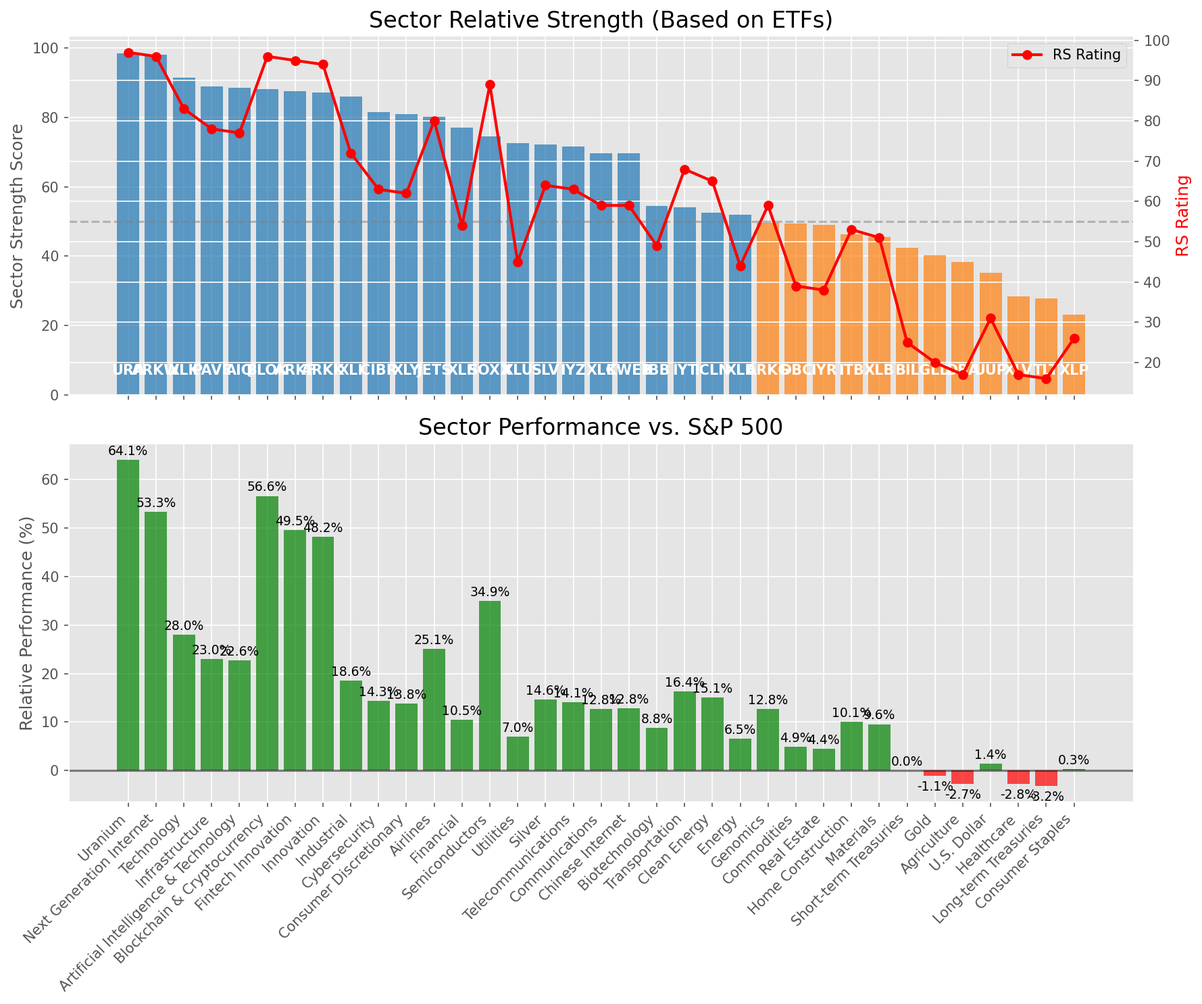
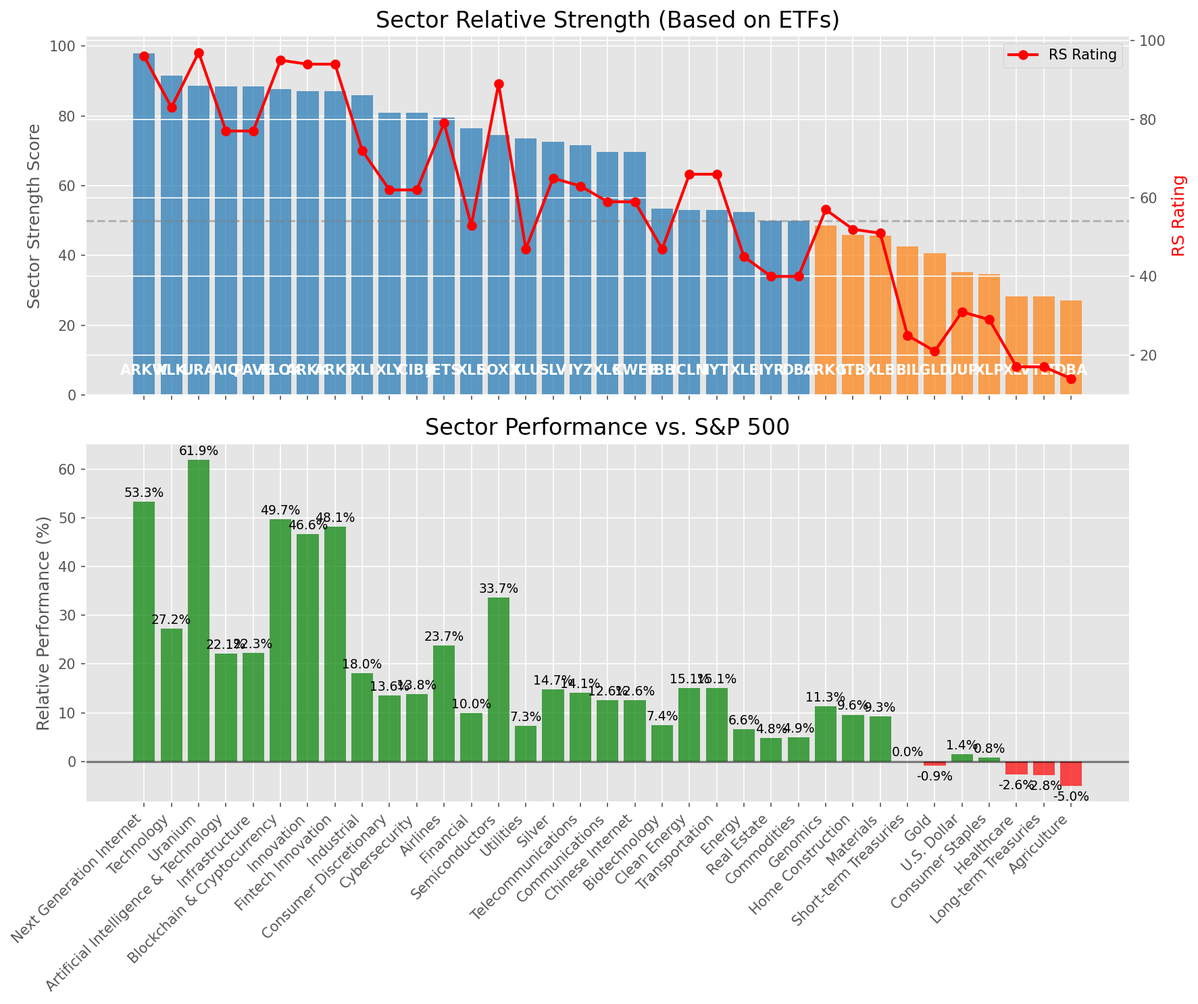
Add market report for 2025-07-29

diff --git a/oneil_relative_strength_report_2025-07-29.md b/oneil_relative_strength_report_2025-07-29.md
@@ -9,11 +9,11 @@
 | Metric | Value |
 |--------|-------|
 | **Market Valuation** | **Overvalued** |
-| **Current Ratio** | 10.48 |
+| **Current Ratio** | 10.45 |
 | **Historical Mean** | 9.61 |
 | **Standard Deviation** | 0.60 |
 | **Z-Score (StdDev from Mean)** | 1.43 |
-| **Total Market Cap** | $314.02 trillion |
+| **Total Market Cap** | $313.14 trillion |
 | **GDP** | $29.96 trillion |
 
 ## **Market Insights**
@@ -49,41 +49,41 @@ Based on William O'Neil's Relative Strength Methodology
 
 | ETF | Strength | RS Rating | Performance | Above Key MAs | Trend | Sector |
 |-----|----------|-----------|-------------|--------------|-------|--------|
-| [URA](https://www.tradingview.com/chart/?symbol=URA) | 98.5 | 97.0 | 64.05% | 10d ✓, 50d ✓, 200d ✓ | ↗ | Uranium |
 | [ARKW](https://www.tradingview.com/chart/?symbol=ARKW) | 98.0 | 96.0 | 53.30% | 10d ✓, 50d ✓, 200d ✓ | ↗ | Next Generation Internet |
-| [XLK](https://www.tradingview.com/chart/?symbol=XLK) | 91.5 | 83.0 | 27.95% | 10d ✓, 50d ✓, 200d ✓ | ↗ | Technology |
-| [PAVE](https://www.tradingview.com/chart/?symbol=PAVE) | 89.0 | 78.0 | 22.96% | 10d ✓, 50d ✓, 200d ✓ | ↗ | Infrastructure |
-| [AIQ](https://www.tradingview.com/chart/?symbol=AIQ) | 88.5 | 77.0 | 22.65% | 10d ✓, 50d ✓, 200d ✓ | ↗ | Artificial Intelligence & Technology |
-| [BLOK](https://www.tradingview.com/chart/?symbol=BLOK) | 88.1 | 96.0 | 56.58% | 10d ✗, 50d ✓, 200d ✓ | ↗ | Blockchain & Cryptocurrency |
-| [ARKF](https://www.tradingview.com/chart/?symbol=ARKF) | 87.6 | 95.0 | 49.52% | 10d ✗, 50d ✓, 200d ✓ | ↗ | Fintech Innovation |
-| [ARKK](https://www.tradingview.com/chart/?symbol=ARKK) | 87.1 | 94.0 | 48.17% | 10d ✗, 50d ✓, 200d ✓ | ↗ | Innovation |
-| [XLI](https://www.tradingview.com/chart/?symbol=XLI) | 86.0 | 72.0 | 18.59% | 10d ✓, 50d ✓, 200d ✓ | ↗ | Industrial |
-| [CIBR](https://www.tradingview.com/chart/?symbol=CIBR) | 81.5 | 63.0 | 14.34% | 10d ✓, 50d ✓, 200d ✓ | ↗ | Cybersecurity |
-| [XLY](https://www.tradingview.com/chart/?symbol=XLY) | 81.0 | 62.0 | 13.75% | 10d ✓, 50d ✓, 200d ✓ | ↗ | Consumer Discretionary |
-| [JETS](https://www.tradingview.com/chart/?symbol=JETS) | 80.1 | 80.0 | 25.13% | 10d ✗, 50d ✓, 200d ✓ | ↗ | Airlines |
-| [XLF](https://www.tradingview.com/chart/?symbol=XLF) | 77.0 | 54.0 | 10.47% | 10d ✓, 50d ✓, 200d ✓ | ↗ | Financial |
-| [SOXX](https://www.tradingview.com/chart/?symbol=SOXX) | 74.5 | 89.0 | 34.93% | 10d ✓, 50d ✓, 200d ✓ | ↘ | Semiconductors |
-| [XLU](https://www.tradingview.com/chart/?symbol=XLU) | 72.5 | 45.0 | 7.02% | 10d ✓, 50d ✓, 200d ✓ | ↗ | Utilities |
-| [SLV](https://www.tradingview.com/chart/?symbol=SLV) | 72.1 | 64.0 | 14.59% | 10d ✗, 50d ✓, 200d ✓ | ↗ | Silver |
+| [XLK](https://www.tradingview.com/chart/?symbol=XLK) | 91.5 | 83.0 | 27.22% | 10d ✓, 50d ✓, 200d ✓ | ↗ | Technology |
+| [URA](https://www.tradingview.com/chart/?symbol=URA) | 88.6 | 97.0 | 61.92% | 10d ✗, 50d ✓, 200d ✓ | ↗ | Uranium |
+| [AIQ](https://www.tradingview.com/chart/?symbol=AIQ) | 88.5 | 77.0 | 22.07% | 10d ✓, 50d ✓, 200d ✓ | ↗ | Artificial Intelligence & Technology |
+| [PAVE](https://www.tradingview.com/chart/?symbol=PAVE) | 88.5 | 77.0 | 22.29% | 10d ✓, 50d ✓, 200d ✓ | ↗ | Infrastructure |
+| [BLOK](https://www.tradingview.com/chart/?symbol=BLOK) | 87.6 | 95.0 | 49.70% | 10d ✗, 50d ✓, 200d ✓ | ↗ | Blockchain & Cryptocurrency |
+| [ARKK](https://www.tradingview.com/chart/?symbol=ARKK) | 87.1 | 94.0 | 46.64% | 10d ✗, 50d ✓, 200d ✓ | ↗ | Innovation |
+| [ARKF](https://www.tradingview.com/chart/?symbol=ARKF) | 87.1 | 94.0 | 48.14% | 10d ✗, 50d ✓, 200d ✓ | ↗ | Fintech Innovation |
+| [XLI](https://www.tradingview.com/chart/?symbol=XLI) | 86.0 | 72.0 | 18.05% | 10d ✓, 50d ✓, 200d ✓ | ↗ | Industrial |
+| [XLY](https://www.tradingview.com/chart/?symbol=XLY) | 81.0 | 62.0 | 13.57% | 10d ✓, 50d ✓, 200d ✓ | ↗ | Consumer Discretionary |
+| [CIBR](https://www.tradingview.com/chart/?symbol=CIBR) | 81.0 | 62.0 | 13.75% | 10d ✓, 50d ✓, 200d ✓ | ↗ | Cybersecurity |
+| [JETS](https://www.tradingview.com/chart/?symbol=JETS) | 79.6 | 79.0 | 23.73% | 10d ✗, 50d ✓, 200d ✓ | ↗ | Airlines |
+| [XLF](https://www.tradingview.com/chart/?symbol=XLF) | 76.5 | 53.0 | 9.98% | 10d ✓, 50d ✓, 200d ✓ | ↗ | Financial |
+| [SOXX](https://www.tradingview.com/chart/?symbol=SOXX) | 74.5 | 89.0 | 33.67% | 10d ✓, 50d ✓, 200d ✓ | ↘ | Semiconductors |
+| [XLU](https://www.tradingview.com/chart/?symbol=XLU) | 73.5 | 47.0 | 7.27% | 10d ✓, 50d ✓, 200d ✓ | ↗ | Utilities |
+| [SLV](https://www.tradingview.com/chart/?symbol=SLV) | 72.6 | 65.0 | 14.74% | 10d ✗, 50d ✓, 200d ✓ | ↗ | Silver |
 | [IYZ](https://www.tradingview.com/chart/?symbol=IYZ) | 71.6 | 63.0 | 14.08% | 10d ✗, 50d ✓, 200d ✓ | ↗ | Telecommunications |
-| [XLC](https://www.tradingview.com/chart/?symbol=XLC) | 69.6 | 59.0 | 12.75% | 10d ✗, 50d ✓, 200d ✓ | ↗ | Communications |
-| [KWEB](https://www.tradingview.com/chart/?symbol=KWEB) | 69.6 | 59.0 | 12.80% | 10d ✗, 50d ✓, 200d ✓ | ↗ | Chinese Internet |
-| [IBB](https://www.tradingview.com/chart/?symbol=IBB) | 54.5 | 49.0 | 8.84% | 10d ✓, 50d ✓, 200d ✓ | ↘ | Biotechnology |
-| [IYT](https://www.tradingview.com/chart/?symbol=IYT) | 54.1 | 68.0 | 16.36% | 10d ✗, 50d ✓, 200d ✓ | ↘ | Transportation |
-| [ICLN](https://www.tradingview.com/chart/?symbol=ICLN) | 52.6 | 65.0 | 15.07% | 10d ✗, 50d ✓, 200d ✓ | ↘ | Clean Energy |
-| [XLE](https://www.tradingview.com/chart/?symbol=XLE) | 52.0 | 44.0 | 6.53% | 10d ✓, 50d ✓, 200d ✓ | ↘ | Energy |
-| [ARKG](https://www.tradingview.com/chart/?symbol=ARKG) | 49.6 | 59.0 | 12.75% | 10d ✗, 50d ✓, 200d ✓ | ↘ | Genomics |
-| [DBC](https://www.tradingview.com/chart/?symbol=DBC) | 49.5 | 39.0 | 4.92% | 10d ✓, 50d ✓, 200d ✓ | ↘ | Commodities |
-| [IYR](https://www.tradingview.com/chart/?symbol=IYR) | 49.0 | 38.0 | 4.44% | 10d ✓, 50d ✓, 200d ✓ | ↘ | Real Estate |
-| [ITB](https://www.tradingview.com/chart/?symbol=ITB) | 46.3 | 53.0 | 10.06% | 10d ✓, 50d ✓, 200d ✗ | ↘ | Home Construction |
-| [XLB](https://www.tradingview.com/chart/?symbol=XLB) | 45.6 | 51.0 | 9.56% | 10d ✗, 50d ✓, 200d ✓ | ↘ | Materials |
+| [XLC](https://www.tradingview.com/chart/?symbol=XLC) | 69.6 | 59.0 | 12.57% | 10d ✗, 50d ✓, 200d ✓ | ↗ | Communications |
+| [KWEB](https://www.tradingview.com/chart/?symbol=KWEB) | 69.6 | 59.0 | 12.57% | 10d ✗, 50d ✓, 200d ✓ | ↗ | Chinese Internet |
+| [IBB](https://www.tradingview.com/chart/?symbol=IBB) | 53.5 | 47.0 | 7.40% | 10d ✓, 50d ✓, 200d ✓ | ↘ | Biotechnology |
+| [ICLN](https://www.tradingview.com/chart/?symbol=ICLN) | 53.1 | 66.0 | 15.09% | 10d ✗, 50d ✓, 200d ✓ | ↘ | Clean Energy |
+| [IYT](https://www.tradingview.com/chart/?symbol=IYT) | 53.1 | 66.0 | 15.10% | 10d ✗, 50d ✓, 200d ✓ | ↘ | Transportation |
+| [XLE](https://www.tradingview.com/chart/?symbol=XLE) | 52.5 | 45.0 | 6.56% | 10d ✓, 50d ✓, 200d ✓ | ↘ | Energy |
+| [IYR](https://www.tradingview.com/chart/?symbol=IYR) | 50.0 | 40.0 | 4.82% | 10d ✓, 50d ✓, 200d ✓ | ↘ | Real Estate |
+| [DBC](https://www.tradingview.com/chart/?symbol=DBC) | 50.0 | 40.0 | 4.92% | 10d ✓, 50d ✓, 200d ✓ | ↘ | Commodities |
+| [ARKG](https://www.tradingview.com/chart/?symbol=ARKG) | 48.6 | 57.0 | 11.32% | 10d ✗, 50d ✓, 200d ✓ | ↘ | Genomics |
+| [ITB](https://www.tradingview.com/chart/?symbol=ITB) | 45.8 | 52.0 | 9.58% | 10d ✓, 50d ✓, 200d ✗ | ↘ | Home Construction |
+| [XLB](https://www.tradingview.com/chart/?symbol=XLB) | 45.6 | 51.0 | 9.28% | 10d ✗, 50d ✓, 200d ✓ | ↘ | Materials |
 | [BIL](https://www.tradingview.com/chart/?symbol=BIL) | 42.5 | 25.0 | 0.02% | 10d ✓, 50d ✓, 200d ✓ | ↘ | Short-term Treasuries |
-| [GLD](https://www.tradingview.com/chart/?symbol=GLD) | 40.2 | 20.0 | -1.12% | 10d ✗, 50d ✗, 200d ✓ | ↗ | Gold |
-| [DBA](https://www.tradingview.com/chart/?symbol=DBA) | 38.4 | 17.0 | -2.74% | 10d ✓, 50d ✗, 200d ✗ | ↗ | Agriculture |
-| [UUP](https://www.tradingview.com/chart/?symbol=UUP) | 35.3 | 31.0 | 1.45% | 10d ✓, 50d ✓, 200d ✗ | ↘ | U.S. Dollar |
-| [XLV](https://www.tradingview.com/chart/?symbol=XLV) | 28.3 | 17.0 | -2.80% | 10d ✓, 50d ✓, 200d ✗ | ↘ | Healthcare |
-| [TLT](https://www.tradingview.com/chart/?symbol=TLT) | 27.8 | 16.0 | -3.16% | 10d ✓, 50d ✓, 200d ✗ | ↘ | Long-term Treasuries |
-| [XLP](https://www.tradingview.com/chart/?symbol=XLP) | 23.2 | 26.0 | 0.32% | 10d ✗, 50d ✗, 200d ✓ | ↘ | Consumer Staples |
+| [GLD](https://www.tradingview.com/chart/?symbol=GLD) | 40.7 | 21.0 | -0.85% | 10d ✗, 50d ✗, 200d ✓ | ↗ | Gold |
+| [UUP](https://www.tradingview.com/chart/?symbol=UUP) | 35.3 | 31.0 | 1.43% | 10d ✓, 50d ✓, 200d ✗ | ↘ | U.S. Dollar |
+| [XLP](https://www.tradingview.com/chart/?symbol=XLP) | 34.6 | 29.0 | 0.81% | 10d ✓, 50d ✗, 200d ✓ | ↘ | Consumer Staples |
+| [XLV](https://www.tradingview.com/chart/?symbol=XLV) | 28.3 | 17.0 | -2.65% | 10d ✓, 50d ✓, 200d ✗ | ↘ | Healthcare |
+| [TLT](https://www.tradingview.com/chart/?symbol=TLT) | 28.3 | 17.0 | -2.80% | 10d ✓, 50d ✓, 200d ✗ | ↘ | Long-term Treasuries |
+| [DBA](https://www.tradingview.com/chart/?symbol=DBA) | 27.0 | 14.0 | -5.03% | 10d ✗, 50d ✗, 200d ✗ | ↗ | Agriculture |
 
 ### **Sector ETF Performance Interpretation**
 
@@ -98,178 +98,174 @@ This table shows the relative strength metrics for different market sectors base
 
 ### **Current Sector Leadership**
 
-The current market leadership is coming from the following sectors: **Uranium, Next Generation Internet, Technology**.
+The current market leadership is coming from the following sectors: **Next Generation Internet, Technology, Uranium**.
 
-The **Uranium** sector (represented by **URA**) is showing particularly strong relative strength with an RS rating of 97.0 and performance of 64.05% vs. the S&P 500. This sector is trading above its 10-day, 50-day, 200-day moving average(s). Investors should consider focusing on high RS stocks within these leading sectors for potential outperformance.
+The **Next Generation Internet** sector (represented by **ARKW**) is showing particularly strong relative strength with an RS rating of 96.0 and performance of 53.30% vs. the S&P 500. This sector is trading above its 10-day, 50-day, 200-day moving average(s). Investors should consider focusing on high RS stocks within these leading sectors for potential outperformance.
 
 ---
 
 ## **Buy Recommendations**
 
-The following 48 stocks show exceptional relative strength:
+The following 42 stocks show exceptional relative strength:
 
 | RS Rating | Buy Score | Current Price | Chart | Name | Ticker |
 |-----------|-----------|---------------|-------|------|--------|
-| 100 | 100 | $105.97 | [Chart](https://www.tradingview.com/chart/?symbol=HOOD) | Robinhood Markets, Inc. Class A Common Stock | HOOD |
-| 100 | 100 | $234.36 | [Chart](https://www.tradingview.com/chart/?symbol=LEU) | Centrus Energy Corp. | LEU |
-| 100 | 100 | $205.12 | [Chart](https://www.tradingview.com/chart/?symbol=CLS) | Celestica, Inc. | CLS |
-| 100 | 100 | $49.63 | [Chart](https://www.tradingview.com/chart/?symbol=TTMI) | TTM Technologies Inc | TTMI |
-| 100 | 100 | $62.19 | [Chart](https://www.tradingview.com/chart/?symbol=MP) | MP Materials Corp. | MP |
-| 100 | 100 | $145.14 | [Chart](https://www.tradingview.com/chart/?symbol=SEZL) | Sezzle Inc. Common Stock | SEZL |
-| 100 | 100 | $226.99 | [Chart](https://www.tradingview.com/chart/?symbol=DAVE) | Dave Inc. Class A Common Stock | DAVE |
+| 100 | 100 | $105.23 | [Chart](https://www.tradingview.com/chart/?symbol=HOOD) | Robinhood Markets, Inc. Class A Common Stock | HOOD |
+| 100 | 100 | $61.60 | [Chart](https://www.tradingview.com/chart/?symbol=MP) | MP Materials Corp. | MP |
+| 100 | 100 | $142.22 | [Chart](https://www.tradingview.com/chart/?symbol=SEZL) | Sezzle Inc. Common Stock | SEZL |
+| 100 | 100 | $203.92 | [Chart](https://www.tradingview.com/chart/?symbol=CLS) | Celestica, Inc. | CLS |
+| 100 | 100 | $49.29 | [Chart](https://www.tradingview.com/chart/?symbol=TTMI) | TTM Technologies Inc | TTMI |
+| 100 | 100 | $221.99 | [Chart](https://www.tradingview.com/chart/?symbol=DAVE) | Dave Inc. Class A Common Stock | DAVE |
 | 99 | 100 | $25.46 | [Chart](https://www.tradingview.com/chart/?symbol=CPS) | Cooper-Standard Automotive Inc. | CPS |
-| 99 | 100 | $76.17 | [Chart](https://www.tradingview.com/chart/?symbol=LIF) | Life360, Inc. Common Stock | LIF |
-| 99 | 100 | $57.48 | [Chart](https://www.tradingview.com/chart/?symbol=HIMS) | Hims & Hers Health, Inc. | HIMS |
-| 98 | 100 | $58.60 | [Chart](https://www.tradingview.com/chart/?symbol=KTOS) | Kratos Defense & Security Solutions, Inc. | KTOS |
-| 98 | 100 | $643.35 | [Chart](https://www.tradingview.com/chart/?symbol=GEV) | GE Vernova Inc. | GEV |
-| 98 | 100 | $360.02 | [Chart](https://www.tradingview.com/chart/?symbol=TLN) | Talen Energy Corporation Common Stock | TLN |
-| 97 | 100 | $243.00 | [Chart](https://www.tradingview.com/chart/?symbol=AGX) | Argan, Inc | AGX |
-| 97 | 100 | $202.10 | [Chart](https://www.tradingview.com/chart/?symbol=NET) | Cloudflare, Inc. Class A common stock, par value $0.001 per share | NET |
-| 96 | 100 | $231.95 | [Chart](https://www.tradingview.com/chart/?symbol=JBL) | Jabil Inc. | JBL |
+| 99 | 100 | $76.88 | [Chart](https://www.tradingview.com/chart/?symbol=LIF) | Life360, Inc. Common Stock | LIF |
+| 99 | 100 | $58.20 | [Chart](https://www.tradingview.com/chart/?symbol=HIMS) | Hims & Hers Health, Inc. | HIMS |
+| 98 | 100 | $356.51 | [Chart](https://www.tradingview.com/chart/?symbol=TLN) | Talen Energy Corporation Common Stock | TLN |
+| 98 | 100 | $636.43 | [Chart](https://www.tradingview.com/chart/?symbol=GEV) | GE Vernova Inc. | GEV |
+| 97 | 100 | $199.75 | [Chart](https://www.tradingview.com/chart/?symbol=NET) | Cloudflare, Inc. Class A common stock, par value $0.001 per share | NET |
+| 97 | 100 | $231.07 | [Chart](https://www.tradingview.com/chart/?symbol=JBL) | Jabil Inc. | JBL |
+| 97 | 100 | $240.51 | [Chart](https://www.tradingview.com/chart/?symbol=AGX) | Argan, Inc | AGX |
+| 96 | 100 | $65.44 | [Chart](https://www.tradingview.com/chart/?symbol=IBKR) | Interactive Brokers Group, Inc. Class A Common Stock | IBKR |
+| 96 | 100 | $105.18 | [Chart](https://www.tradingview.com/chart/?symbol=VRNA) | Verona Pharma plc | VRNA |
 | 96 | 100 | $158.24 | [Chart](https://www.tradingview.com/chart/?symbol=ARKW) | ARK Next Generation Internet ETF | ARKW |
-| 96 | 100 | $65.88 | [Chart](https://www.tradingview.com/chart/?symbol=IBKR) | Interactive Brokers Group, Inc. Class A Common Stock | IBKR |
-| 96 | 100 | $37.73 | [Chart](https://www.tradingview.com/chart/?symbol=NNE) | Nano Nuclear Energy Inc. Common Stock | NNE |
-| 95 | 100 | $105.27 | [Chart](https://www.tradingview.com/chart/?symbol=VRNA) | Verona Pharma plc | VRNA |
-| 94 | 100 | $77.48 | [Chart](https://www.tradingview.com/chart/?symbol=URBN) | Urban Outfitters Inc | URBN |
-| 93 | 100 | $260.58 | [Chart](https://www.tradingview.com/chart/?symbol=WWD) | Woodward, Inc. | WWD |
-| 93 | 100 | $22.47 | [Chart](https://www.tradingview.com/chart/?symbol=MIR) | Mirion Technologies, Inc. | MIR |
-| 92 | 100 | $114.14 | [Chart](https://www.tradingview.com/chart/?symbol=SANM) | Sanmina  Corp | SANM |
-| 92 | 100 | $163.82 | [Chart](https://www.tradingview.com/chart/?symbol=COOP) | Mr. Cooper Group Inc. Common Stock | COOP |
-| 91 | 100 | $34.76 | [Chart](https://www.tradingview.com/chart/?symbol=APG) | APi Group Corporation | APG |
-| 91 | 100 | $189.84 | [Chart](https://www.tradingview.com/chart/?symbol=HWM) | Howmet Aerospace Inc. | HWM |
-| 91 | 100 | $95.81 | [Chart](https://www.tradingview.com/chart/?symbol=C) | Citigroup Inc. | C |
-| 91 | 100 | $106.15 | [Chart](https://www.tradingview.com/chart/?symbol=APH) | Amphenol Corporation | APH |
-| 91 | 100 | $19.83 | [Chart](https://www.tradingview.com/chart/?symbol=LQDA) | Liquidia Corporation Common Stock | LQDA |
-| 91 | 100 | $57.96 | [Chart](https://www.tradingview.com/chart/?symbol=VIK) | Viking Holdings Ltd | VIK |
-| 90 | 100 | $157.78 | [Chart](https://www.tradingview.com/chart/?symbol=PLTR) | Palantir Technologies Inc. Class A Common Stock | PLTR |
-| 89 | 100 | $48.68 | [Chart](https://www.tradingview.com/chart/?symbol=TOST) | Toast, Inc. | TOST |
-| 89 | 100 | $271.89 | [Chart](https://www.tradingview.com/chart/?symbol=GE) | GE Aerospace | GE |
-| 86 | 99 | $91.05 | [Chart](https://www.tradingview.com/chart/?symbol=RBRK) | Rubrik, Inc. | RBRK |
-| 86 | 98 | $48.27 | [Chart](https://www.tradingview.com/chart/?symbol=DRS) | Leonardo DRS, Inc. Common Stock | DRS |
-| 84 | 97 | $33.09 | [Chart](https://www.tradingview.com/chart/?symbol=DB) | Deutsche Bank Aktiengesellschaft | DB |
-| 85 | 96 | $46.62 | [Chart](https://www.tradingview.com/chart/?symbol=BBIO) | BridgeBio Pharma, Inc. Common Stock | BBIO |
-| 84 | 96 | $101.94 | [Chart](https://www.tradingview.com/chart/?symbol=BK) | Bank of New York Mellon Corporation | BK |
-| 84 | 95 | $291.31 | [Chart](https://www.tradingview.com/chart/?symbol=VEEV) | Veeva Systems Inc. | VEEV |
+| 94 | 100 | $265.90 | [Chart](https://www.tradingview.com/chart/?symbol=WWD) | Woodward, Inc. | WWD |
+| 94 | 100 | $77.70 | [Chart](https://www.tradingview.com/chart/?symbol=URBN) | Urban Outfitters Inc | URBN |
+| 93 | 100 | $117.00 | [Chart](https://www.tradingview.com/chart/?symbol=SANM) | Sanmina  Corp | SANM |
+| 93 | 100 | $22.30 | [Chart](https://www.tradingview.com/chart/?symbol=MIR) | Mirion Technologies, Inc. | MIR |
+| 92 | 100 | $161.95 | [Chart](https://www.tradingview.com/chart/?symbol=COOP) | Mr. Cooper Group Inc. Common Stock | COOP |
+| 92 | 100 | $190.22 | [Chart](https://www.tradingview.com/chart/?symbol=HWM) | Howmet Aerospace Inc. | HWM |
+| 92 | 100 | $105.91 | [Chart](https://www.tradingview.com/chart/?symbol=APH) | Amphenol Corporation | APH |
+| 91 | 100 | $19.73 | [Chart](https://www.tradingview.com/chart/?symbol=LQDA) | Liquidia Corporation Common Stock | LQDA |
+| 91 | 100 | $94.97 | [Chart](https://www.tradingview.com/chart/?symbol=C) | Citigroup Inc. | C |
+| 90 | 100 | $156.37 | [Chart](https://www.tradingview.com/chart/?symbol=PLTR) | Palantir Technologies Inc. Class A Common Stock | PLTR |
+| 89 | 100 | $48.25 | [Chart](https://www.tradingview.com/chart/?symbol=TOST) | Toast, Inc. | TOST |
+| 89 | 100 | $271.04 | [Chart](https://www.tradingview.com/chart/?symbol=GE) | GE Aerospace | GE |
+| 87 | 99 | $48.51 | [Chart](https://www.tradingview.com/chart/?symbol=DRS) | Leonardo DRS, Inc. Common Stock | DRS |
+| 85 | 98 | $89.84 | [Chart](https://www.tradingview.com/chart/?symbol=RBRK) | Rubrik, Inc. | RBRK |
+| 86 | 97 | $46.76 | [Chart](https://www.tradingview.com/chart/?symbol=BBIO) | BridgeBio Pharma, Inc. Common Stock | BBIO |
+| 85 | 97 | $101.47 | [Chart](https://www.tradingview.com/chart/?symbol=BK) | Bank of New York Mellon Corporation | BK |
+| 84 | 97 | $32.95 | [Chart](https://www.tradingview.com/chart/?symbol=DB) | Deutsche Bank Aktiengesellschaft | DB |
+| 84 | 94 | $177.93 | [Chart](https://www.tradingview.com/chart/?symbol=AWI) | Armstrong World Industries, Inc. | AWI |
 | 83 | 94 | $147.19 | [Chart](https://www.tradingview.com/chart/?symbol=PPA) | Invesco Aerospace & Defense ETF | PPA |
-| 82 | 94 | $64.76 | [Chart](https://www.tradingview.com/chart/?symbol=CAKE) | Cheesecake Factory (The) | CAKE |
-| 83 | 93 | $48.84 | [Chart](https://www.tradingview.com/chart/?symbol=INOD) | Innodata Inc. | INOD |
-| 83 | 93 | $177.26 | [Chart](https://www.tradingview.com/chart/?symbol=AWI) | Armstrong World Industries, Inc. | AWI |
-| 82 | 93 | $197.84 | [Chart](https://www.tradingview.com/chart/?symbol=ITA) | iShares U.S. Aerospace & Defense ETF | ITA |
-| 82 | 92 | $95.53 | [Chart](https://www.tradingview.com/chart/?symbol=NDAQ) | Nasdaq, Inc. Common Stock | NDAQ |
-| 80 | 91 | $40.63 | [Chart](https://www.tradingview.com/chart/?symbol=ZLAB) | Zai Lab Limited American Depositary Shares | ZLAB |
-| 80 | 90 | $65.61 | [Chart](https://www.tradingview.com/chart/?symbol=CNM) | Core & Main, Inc. | CNM |
+| 83 | 94 | $197.53 | [Chart](https://www.tradingview.com/chart/?symbol=ITA) | iShares U.S. Aerospace & Defense ETF | ITA |
+| 83 | 94 | $287.29 | [Chart](https://www.tradingview.com/chart/?symbol=VEEV) | Veeva Systems Inc. | VEEV |
+| 80 | 94 | $19.83 | [Chart](https://www.tradingview.com/chart/?symbol=BCS) | Barclays PLC | BCS |
+| 83 | 93 | $95.45 | [Chart](https://www.tradingview.com/chart/?symbol=NDAQ) | Nasdaq, Inc. Common Stock | NDAQ |
+| 80 | 91 | $71.50 | [Chart](https://www.tradingview.com/chart/?symbol=ULS) | UL Solutions Inc. | ULS |
+| 80 | 90 | $112.93 | [Chart](https://www.tradingview.com/chart/?symbol=SXT) | Sensient Technology Corporation | SXT |
 
 ---
 
 
 ## **Sell Recommendations**
 
-The following 102 stocks show deteriorating relative strength:
+The following 104 stocks show deteriorating relative strength:
 
 | RS Rating | Sell Score | Current Price | Chart | Name | Ticker |
 |-----------|------------|---------------|-------|------|--------|
-| 1 | 100 | $23.14 | [Chart](https://www.tradingview.com/chart/?symbol=TECS) | Direxion Daily Technology Bear 3x Shares | TECS |
-| 1 | 100 | $23.89 | [Chart](https://www.tradingview.com/chart/?symbol=QID) | ProShares UltraShort QQQ | QID |
-| 1 | 100 | $11.98 | [Chart](https://www.tradingview.com/chart/?symbol=NVDS) | Investment Managers Series Trust II Tradr 1.5X Short NVDA Daily ETF | NVDS |
-| 1 | 100 | $22.96 | [Chart](https://www.tradingview.com/chart/?symbol=CRTO) | Criteo S.A. | CRTO |
-| 2 | 100 | $14.37 | [Chart](https://www.tradingview.com/chart/?symbol=CLBT) | Cellebrite DI Ltd. Class A Ordinary Shares | CLBT |
-| 2 | 100 | $39.69 | [Chart](https://www.tradingview.com/chart/?symbol=SDOW) | ProShares UltraPro Short Dow 30 | SDOW |
-| 2 | 100 | $13.60 | [Chart](https://www.tradingview.com/chart/?symbol=SG) | Sweetgreen, Inc. | SG |
+| 1 | 100 | $23.04 | [Chart](https://www.tradingview.com/chart/?symbol=CRTO) | Criteo S.A. | CRTO |
+| 1 | 100 | $23.55 | [Chart](https://www.tradingview.com/chart/?symbol=TECS) | Direxion Daily Technology Bear 3x Shares | TECS |
+| 1 | 100 | $12.17 | [Chart](https://www.tradingview.com/chart/?symbol=NVDS) | Investment Managers Series Trust II Tradr 1.5X Short NVDA Daily ETF | NVDS |
+| 2 | 100 | $24.04 | [Chart](https://www.tradingview.com/chart/?symbol=QID) | ProShares UltraShort QQQ | QID |
+| 2 | 100 | $13.39 | [Chart](https://www.tradingview.com/chart/?symbol=SG) | Sweetgreen, Inc. | SG |
+| 2 | 100 | $14.46 | [Chart](https://www.tradingview.com/chart/?symbol=CLBT) | Cellebrite DI Ltd. Class A Ordinary Shares | CLBT |
 | 2 | 100 | $72.41 | [Chart](https://www.tradingview.com/chart/?symbol=LNTH) | Lantheus Holdings, Inc | LNTH |
-| 2 | 100 | $54.30 | [Chart](https://www.tradingview.com/chart/?symbol=GMED) | GLOBUS MEDICAL INC | GMED |
 | 2 | 100 | $65.03 | [Chart](https://www.tradingview.com/chart/?symbol=SKY) | Champion Homes, Inc. | SKY |
-| 3 | 100 | $18.27 | [Chart](https://www.tradingview.com/chart/?symbol=GPCR) | Structure Therapeutics Inc. American Depositary Shares | GPCR |
-| 4 | 100 | $23.78 | [Chart](https://www.tradingview.com/chart/?symbol=DUST) | Direxion Daily Gold Miners Index Bear 2X Shares | DUST |
-| 4 | 100 | $16.34 | [Chart](https://www.tradingview.com/chart/?symbol=BTAL) | AGF U.S. Market Neutral Anti-Beta Fund | BTAL |
+| 2 | 100 | $40.06 | [Chart](https://www.tradingview.com/chart/?symbol=SDOW) | ProShares UltraPro Short Dow 30 | SDOW |
+| 2 | 100 | $54.30 | [Chart](https://www.tradingview.com/chart/?symbol=GMED) | GLOBUS MEDICAL INC | GMED |
+| 3 | 100 | $18.38 | [Chart](https://www.tradingview.com/chart/?symbol=GPCR) | Structure Therapeutics Inc. American Depositary Shares | GPCR |
+| 4 | 100 | $23.14 | [Chart](https://www.tradingview.com/chart/?symbol=HELE) | Helen Of Troy Ltd | HELE |
+| 4 | 100 | $23.64 | [Chart](https://www.tradingview.com/chart/?symbol=DUST) | Direxion Daily Gold Miners Index Bear 2X Shares | DUST |
+| 4 | 100 | $16.46 | [Chart](https://www.tradingview.com/chart/?symbol=BTAL) | AGF U.S. Market Neutral Anti-Beta Fund | BTAL |
 | 4 | 100 | $48.50 | [Chart](https://www.tradingview.com/chart/?symbol=SLVM) | Sylvamo Corporation | SLVM |
-| 4 | 100 | $15.21 | [Chart](https://www.tradingview.com/chart/?symbol=PLSE) | Pulse Biosciences, Inc Common Stock (DE) | PLSE |
-| 6 | 100 | $10.04 | [Chart](https://www.tradingview.com/chart/?symbol=SPDN) | Direxion Daily S&P 500 Bear 1X Shares | SPDN |
-| 6 | 100 | $38.66 | [Chart](https://www.tradingview.com/chart/?symbol=SH) | ProShares Short S&P500 | SH |
+| 4 | 100 | $12.81 | [Chart](https://www.tradingview.com/chart/?symbol=PSFE) | Paysafe Limited | PSFE |
+| 5 | 100 | $15.21 | [Chart](https://www.tradingview.com/chart/?symbol=PLSE) | Pulse Biosciences, Inc Common Stock (DE) | PLSE |
+| 6 | 100 | $38.76 | [Chart](https://www.tradingview.com/chart/?symbol=SH) | ProShares Short S&P500 | SH |
+| 6 | 100 | $10.06 | [Chart](https://www.tradingview.com/chart/?symbol=SPDN) | Direxion Daily S&P 500 Bear 1X Shares | SPDN |
 | 6 | 100 | $10.18 | [Chart](https://www.tradingview.com/chart/?symbol=IMXI) | International Money Express, Inc. | IMXI |
-| 7 | 100 | $53.74 | [Chart](https://www.tradingview.com/chart/?symbol=TSN) | Tyson Foods, Inc. | TSN |
-| 10 | 100 | $69.95 | [Chart](https://www.tradingview.com/chart/?symbol=NHI) | National Health Investors | NHI |
-| 10 | 100 | $14.23 | [Chart](https://www.tradingview.com/chart/?symbol=DXC) | DXC Technology Company | DXC |
-| 12 | 100 | $13.96 | [Chart](https://www.tradingview.com/chart/?symbol=OCSL) | Oaktree Specialty Lending Corporation | OCSL |
-| 12 | 100 | $127.50 | [Chart](https://www.tradingview.com/chart/?symbol=ICUI) | ICU Medical Inc | ICUI |
-| 12 | 100 | $15.19 | [Chart](https://www.tradingview.com/chart/?symbol=FIHL) | Fidelis Insurance Holdings Limited | FIHL |
+| 8 | 100 | $54.12 | [Chart](https://www.tradingview.com/chart/?symbol=TSN) | Tyson Foods, Inc. | TSN |
+| 8 | 100 | $29.72 | [Chart](https://www.tradingview.com/chart/?symbol=CRNX) | Crinetics Pharmaceuticals, Inc. | CRNX |
+| 8 | 100 | $14.10 | [Chart](https://www.tradingview.com/chart/?symbol=DXC) | DXC Technology Company | DXC |
+| 11 | 100 | $69.95 | [Chart](https://www.tradingview.com/chart/?symbol=NHI) | National Health Investors | NHI |
 | 12 | 100 | $63.48 | [Chart](https://www.tradingview.com/chart/?symbol=ZROZ) | PIMCO 25+ Year Zero Coupon U.S. Treasury Index Exchange-Traded Fund | ZROZ |
-| 12 | 100 | $16.46 | [Chart](https://www.tradingview.com/chart/?symbol=UMH) | UMH Properties, Inc. | UMH |
-| 1 | 99 | $10.49 | [Chart](https://www.tradingview.com/chart/?symbol=TZA) | Direxion Daily Small Cap Bear 3x Shares | TZA |
-| 5 | 99 | $21.15 | [Chart](https://www.tradingview.com/chart/?symbol=ERY) | Direxion Daily Energy Bear 2X Shares | ERY |
-| 13 | 99 | $64.06 | [Chart](https://www.tradingview.com/chart/?symbol=EDV) | Vanguard World Funds Extended Duration ETF | EDV |
-| 3 | 98 | $10.86 | [Chart](https://www.tradingview.com/chart/?symbol=CERT) | Certara, Inc. Common Stock | CERT |
-| 6 | 98 | $44.73 | [Chart](https://www.tradingview.com/chart/?symbol=CMG) | Chipotle Mexican Grill, Inc. | CMG |
-| 10 | 98 | $103.16 | [Chart](https://www.tradingview.com/chart/?symbol=DEO) | Diageo plc | DEO |
+| 12 | 100 | $15.19 | [Chart](https://www.tradingview.com/chart/?symbol=FIHL) | Fidelis Insurance Holdings Limited | FIHL |
+| 12 | 100 | $127.50 | [Chart](https://www.tradingview.com/chart/?symbol=ICUI) | ICU Medical Inc | ICUI |
+| 12 | 100 | $13.96 | [Chart](https://www.tradingview.com/chart/?symbol=OCSL) | Oaktree Specialty Lending Corporation | OCSL |
+| 13 | 100 | $50.57 | [Chart](https://www.tradingview.com/chart/?symbol=ASH) | Ashland Inc. | ASH |
+| 13 | 100 | $16.46 | [Chart](https://www.tradingview.com/chart/?symbol=UMH) | UMH Properties, Inc. | UMH |
+| 6 | 98 | $21.15 | [Chart](https://www.tradingview.com/chart/?symbol=ERY) | Direxion Daily Energy Bear 2X Shares | ERY |
+| 10 | 98 | $55.76 | [Chart](https://www.tradingview.com/chart/?symbol=HRB) | H&R Block, Inc. | HRB |
 | 12 | 98 | $10.42 | [Chart](https://www.tradingview.com/chart/?symbol=ACIC) | American Coastal Insurance Corporation Common Stock | ACIC |
+| 3 | 97 | $10.73 | [Chart](https://www.tradingview.com/chart/?symbol=CERT) | Certara, Inc. Common Stock | CERT |
+| 6 | 97 | $44.54 | [Chart](https://www.tradingview.com/chart/?symbol=CMG) | Chipotle Mexican Grill, Inc. | CMG |
 | 11 | 97 | $29.00 | [Chart](https://www.tradingview.com/chart/?symbol=OMCL) | Omnicell Inc | OMCL |
-| 15 | 97 | $50.95 | [Chart](https://www.tradingview.com/chart/?symbol=ASH) | Ashland Inc. | ASH |
+| 5 | 96 | $44.32 | [Chart](https://www.tradingview.com/chart/?symbol=ACIW) | ACI Worldwide, Inc. | ACIW |
 | 9 | 96 | $72.18 | [Chart](https://www.tradingview.com/chart/?symbol=AWR) | American States Water Company | AWR |
-| 12 | 96 | $28.75 | [Chart](https://www.tradingview.com/chart/?symbol=BAX) | Baxter International Inc. | BAX |
-| 12 | 96 | $39.72 | [Chart](https://www.tradingview.com/chart/?symbol=BWIN) | The Baldwin Insurance Group, Inc. Class A Common Stock | BWIN |
-| 13 | 96 | $76.07 | [Chart](https://www.tradingview.com/chart/?symbol=BG) | Bunge Global SA | BG |
-| 11 | 95 | $59.20 | [Chart](https://www.tradingview.com/chart/?symbol=UL) | Unilever plc | UL |
+| 11 | 96 | $103.47 | [Chart](https://www.tradingview.com/chart/?symbol=DEO) | Diageo plc | DEO |
+| 12 | 96 | $75.75 | [Chart](https://www.tradingview.com/chart/?symbol=BG) | Bunge Global SA | BG |
+| 18 | 96 | $11.59 | [Chart](https://www.tradingview.com/chart/?symbol=NVG) | Nuveen AMT-Free Municipal Credit Income Fund | NVG |
+| 5 | 95 | $33.65 | [Chart](https://www.tradingview.com/chart/?symbol=VERX) | Vertex, Inc. Class A Common Stock | VERX |
+| 11 | 95 | $39.56 | [Chart](https://www.tradingview.com/chart/?symbol=BWIN) | The Baldwin Insurance Group, Inc. Class A Common Stock | BWIN |
 | 12 | 95 | $331.35 | [Chart](https://www.tradingview.com/chart/?symbol=EG) | Everest Group, Ltd. | EG |
-| 11 | 94 | $55.59 | [Chart](https://www.tradingview.com/chart/?symbol=HRB) | H&R Block, Inc. | HRB |
+| 14 | 95 | $36.91 | [Chart](https://www.tradingview.com/chart/?symbol=PBA) | PEMBINA PIPELINE CORPORATION | PBA |
+| 19 | 95 | $11.65 | [Chart](https://www.tradingview.com/chart/?symbol=NZF) | Nuveen Municipal Credit Income Fund | NZF |
 | 13 | 94 | $15.78 | [Chart](https://www.tradingview.com/chart/?symbol=BBN) | BlackRock Taxable Municipal Bond Trust | BBN |
-| 14 | 94 | $35.44 | [Chart](https://www.tradingview.com/chart/?symbol=AMH) | AMERICAN HOMES 4 RENT | AMH |
+| 13 | 94 | $28.77 | [Chart](https://www.tradingview.com/chart/?symbol=BAX) | Baxter International Inc. | BAX |
 | 14 | 94 | $75.26 | [Chart](https://www.tradingview.com/chart/?symbol=CBT) | Cabot Corporation | CBT |
-| 16 | 94 | $14.28 | [Chart](https://www.tradingview.com/chart/?symbol=ACVA) | ACV Auctions Inc. | ACVA |
+| 16 | 94 | $14.22 | [Chart](https://www.tradingview.com/chart/?symbol=ACVA) | ACV Auctions Inc. | ACVA |
 | 17 | 94 | $21.51 | [Chart](https://www.tradingview.com/chart/?symbol=TUA) | Simplify Short Term Treasury Futures Strategy ETF | TUA |
-| 12 | 93 | $12.37 | [Chart](https://www.tradingview.com/chart/?symbol=WSR) | Whitestone REIT | WSR |
-| 15 | 93 | $87.11 | [Chart](https://www.tradingview.com/chart/?symbol=CL) | Colgate-Palmolive Company | CL |
-| 19 | 93 | $11.58 | [Chart](https://www.tradingview.com/chart/?symbol=NVG) | Nuveen AMT-Free Municipal Credit Income Fund | NVG |
-| 21 | 93 | $10.81 | [Chart](https://www.tradingview.com/chart/?symbol=MQY) | Blackrock Muni Yield Quality Fund, Inc | MQY |
-| 9 | 92 | $36.97 | [Chart](https://www.tradingview.com/chart/?symbol=WTRG) | Essential Utilities, Inc. | WTRG |
-| 14 | 92 | $36.81 | [Chart](https://www.tradingview.com/chart/?symbol=PBA) | PEMBINA PIPELINE CORPORATION | PBA |
-| 14 | 92 | $207.67 | [Chart](https://www.tradingview.com/chart/?symbol=MKTX) | MarketAxess Holdings Inc. | MKTX |
-| 17 | 92 | $31.14 | [Chart](https://www.tradingview.com/chart/?symbol=SCHQ) | Schwab Long-Term U.S. Treasury ETF | SCHQ |
-| 19 | 92 | $11.64 | [Chart](https://www.tradingview.com/chart/?symbol=NZF) | Nuveen Municipal Credit Income Fund | NZF |
+| 17 | 94 | $16.61 | [Chart](https://www.tradingview.com/chart/?symbol=MLN) | VanEck Long Muni ETF | MLN |
+| 20 | 94 | $10.81 | [Chart](https://www.tradingview.com/chart/?symbol=MQY) | Blackrock Muni Yield Quality Fund, Inc | MQY |
+| 12 | 93 | $59.32 | [Chart](https://www.tradingview.com/chart/?symbol=UL) | Unilever plc | UL |
+| 13 | 93 | $207.67 | [Chart](https://www.tradingview.com/chart/?symbol=MKTX) | MarketAxess Holdings Inc. | MKTX |
+| 15 | 93 | $87.61 | [Chart](https://www.tradingview.com/chart/?symbol=CL) | Colgate-Palmolive Company | CL |
+| 15 | 93 | $35.60 | [Chart](https://www.tradingview.com/chart/?symbol=AMH) | AMERICAN HOMES 4 RENT | AMH |
+| 16 | 93 | $31.14 | [Chart](https://www.tradingview.com/chart/?symbol=SCHQ) | Schwab Long-Term U.S. Treasury ETF | SCHQ |
+| 18 | 93 | $22.73 | [Chart](https://www.tradingview.com/chart/?symbol=CURB) | Curbline Properties Corp. | CURB |
+| 13 | 92 | $12.37 | [Chart](https://www.tradingview.com/chart/?symbol=WSR) | Whitestone REIT | WSR |
+| 13 | 91 | $26.25 | [Chart](https://www.tradingview.com/chart/?symbol=FCPT) | Four Corners Property Trust, Inc. | FCPT |
 | 16 | 91 | $198.77 | [Chart](https://www.tradingview.com/chart/?symbol=AVB) | AvalonBay Communities, Inc. | AVB |
-| 16 | 91 | $40.10 | [Chart](https://www.tradingview.com/chart/?symbol=UDR) | UDR, Inc. | UDR |
-| 17 | 91 | $47.10 | [Chart](https://www.tradingview.com/chart/?symbol=BMY) | Bristol-Myers Squibb Co. | BMY |
-| 19 | 91 | $10.25 | [Chart](https://www.tradingview.com/chart/?symbol=MYI) | BLACKROCK MUNIYIELD QUALITY FUND III, INC. | MYI |
-| 11 | 90 | $101.59 | [Chart](https://www.tradingview.com/chart/?symbol=AFL) | Aflac Inc. | AFL |
+| 16 | 91 | $40.29 | [Chart](https://www.tradingview.com/chart/?symbol=UDR) | UDR, Inc. | UDR |
+| 17 | 91 | $47.11 | [Chart](https://www.tradingview.com/chart/?symbol=BMY) | Bristol-Myers Squibb Co. | BMY |
+| 21 | 91 | $11.12 | [Chart](https://www.tradingview.com/chart/?symbol=NAD) | Nuveen Quality Municipal Income Fund | NAD |
+| 10 | 90 | $37.12 | [Chart](https://www.tradingview.com/chart/?symbol=WTRG) | Essential Utilities, Inc. | WTRG |
 | 16 | 90 | $10.59 | [Chart](https://www.tradingview.com/chart/?symbol=SD) | SandRidge Energy, Inc. | SD |
-| 17 | 90 | $127.64 | [Chart](https://www.tradingview.com/chart/?symbol=KMB) | Kimberly-Clark Corp. | KMB |
-| 11 | 89 | $149.35 | [Chart](https://www.tradingview.com/chart/?symbol=MAA) | Mid-America Apartment Communities, Inc. | MAA |
-| 16 | 89 | $156.88 | [Chart](https://www.tradingview.com/chart/?symbol=PG) | Procter & Gamble Company | PG |
-| 21 | 89 | $10.07 | [Chart](https://www.tradingview.com/chart/?symbol=NMZ) | Nuveen Municipal High Income Opportunity Fund | NMZ |
-| 21 | 89 | $11.11 | [Chart](https://www.tradingview.com/chart/?symbol=NAD) | Nuveen Quality Municipal Income Fund | NAD |
-| 19 | 88 | $55.74 | [Chart](https://www.tradingview.com/chart/?symbol=TRNO) | Terreno Realty Corporation | TRNO |
-| 21 | 88 | $15.87 | [Chart](https://www.tradingview.com/chart/?symbol=BNL) | Broadstone Net Lease, Inc. | BNL |
-| 21 | 87 | $10.69 | [Chart](https://www.tradingview.com/chart/?symbol=NEA) | Nuveen AMT-Free Quality Municipal Income Fund | NEA |
-| 15 | 86 | $29.86 | [Chart](https://www.tradingview.com/chart/?symbol=APPN) | Appian Corporation Class A Common Stock | APPN |
-| 17 | 86 | $28.64 | [Chart](https://www.tradingview.com/chart/?symbol=HRL) | Hormel Foods Corporation | HRL |
+| 19 | 90 | $55.85 | [Chart](https://www.tradingview.com/chart/?symbol=TRNO) | Terreno Realty Corporation | TRNO |
+| 20 | 90 | $10.07 | [Chart](https://www.tradingview.com/chart/?symbol=NMZ) | Nuveen Municipal High Income Opportunity Fund | NMZ |
+| 21 | 90 | $10.72 | [Chart](https://www.tradingview.com/chart/?symbol=NEA) | Nuveen AMT-Free Quality Municipal Income Fund | NEA |
+| 12 | 88 | $149.35 | [Chart](https://www.tradingview.com/chart/?symbol=MAA) | Mid-America Apartment Communities, Inc. | MAA |
+| 18 | 88 | $128.24 | [Chart](https://www.tradingview.com/chart/?symbol=KMB) | Kimberly-Clark Corp. | KMB |
+| 15 | 87 | $811.10 | [Chart](https://www.tradingview.com/chart/?symbol=EQIX) | Equinix, Inc. Common Stock REIT | EQIX |
+| 17 | 87 | $157.60 | [Chart](https://www.tradingview.com/chart/?symbol=PG) | Procter & Gamble Company | PG |
+| 22 | 87 | $15.89 | [Chart](https://www.tradingview.com/chart/?symbol=BNL) | Broadstone Net Lease, Inc. | BNL |
 | 21 | 86 | $20.93 | [Chart](https://www.tradingview.com/chart/?symbol=AVBP) | ArriVent BioPharma, Inc. Common Stock | AVBP |
-| 18 | 84 | $70.14 | [Chart](https://www.tradingview.com/chart/?symbol=REG) | Regency Centers Corporation | REG |
+| 23 | 85 | $44.36 | [Chart](https://www.tradingview.com/chart/?symbol=TFI) | SPDR Nuveen ICE Municipal Bond ETF | TFI |
 | 19 | 84 | $21.07 | [Chart](https://www.tradingview.com/chart/?symbol=LGOV) | First Trust Long Duration Opportunities ETF | LGOV |
-| 22 | 84 | $56.92 | [Chart](https://www.tradingview.com/chart/?symbol=O) | Realty Income Corporation | O |
-| 19 | 83 | $112.23 | [Chart](https://www.tradingview.com/chart/?symbol=CPT) | Camden Property Trust | CPT |
-| 25 | 83 | $51.04 | [Chart](https://www.tradingview.com/chart/?symbol=MUNI) | PIMCO Intermediate Municipal Bond Active Exchange-Traded Fund | MUNI |
-| 29 | 83 | $16.37 | [Chart](https://www.tradingview.com/chart/?symbol=XP) | XP Inc. Class A Common Stock | XP |
 | 19 | 82 | $26.75 | [Chart](https://www.tradingview.com/chart/?symbol=EWZ) | iShares MSCI Brazil ETF | EWZ |
+| 22 | 82 | $113.51 | [Chart](https://www.tradingview.com/chart/?symbol=CPT) | Camden Property Trust | CPT |
+| 23 | 82 | $45.23 | [Chart](https://www.tradingview.com/chart/?symbol=BILL) | BILL Holdings, Inc. | BILL |
+| 24 | 82 | $239.62 | [Chart](https://www.tradingview.com/chart/?symbol=WDAY) | Workday, Inc. Class A Common Stock | WDAY |
+| 27 | 82 | $104.12 | [Chart](https://www.tradingview.com/chart/?symbol=PRU) | Prudential Financial, Inc. | PRU |
+| 27 | 82 | $10.27 | [Chart](https://www.tradingview.com/chart/?symbol=MYI) | BLACKROCK MUNIYIELD QUALITY FUND III, INC. | MYI |
+| 30 | 82 | $16.39 | [Chart](https://www.tradingview.com/chart/?symbol=XP) | XP Inc. Class A Common Stock | XP |
+| 32 | 82 | $51.38 | [Chart](https://www.tradingview.com/chart/?symbol=POWI) | Power Integrations Inc | POWI |
+| 19 | 81 | $70.66 | [Chart](https://www.tradingview.com/chart/?symbol=REG) | Regency Centers Corporation | REG |
 | 33 | 81 | $19.67 | [Chart](https://www.tradingview.com/chart/?symbol=AMN) | AMN Healthcare Services | AMN |
-| 26 | 80 | $47.11 | [Chart](https://www.tradingview.com/chart/?symbol=EDU) | New Oriental Education and Technology Group, Inc. American Depositary Shares (each representing ten (10) Common Shares) | EDU |
-| 26 | 80 | $240.30 | [Chart](https://www.tradingview.com/chart/?symbol=WDAY) | Workday, Inc. Class A Common Stock | WDAY |
-| 30 | 80 | $104.72 | [Chart](https://www.tradingview.com/chart/?symbol=PRU) | Prudential Financial, Inc. | PRU |
-| 30 | 80 | $10.95 | [Chart](https://www.tradingview.com/chart/?symbol=NAC) | Nuveen California Quality Municipal Income Fund | NAC |
+| 28 | 79 | $28.27 | [Chart](https://www.tradingview.com/chart/?symbol=CZR) | Caesars Entertainment, Inc. Common Stock | CZR |
+| 31 | 79 | $10.97 | [Chart](https://www.tradingview.com/chart/?symbol=NAC) | Nuveen California Quality Municipal Income Fund | NAC |
+| 26 | 77 | $14.39 | [Chart](https://www.tradingview.com/chart/?symbol=OBDC) | Blue Owl Capital Corporation | OBDC |
+| 27 | 77 | $37.14 | [Chart](https://www.tradingview.com/chart/?symbol=MSTX) | Tidal Trust II Defiance Daily Target 2x Long MSTR ETF | MSTX |
 | 28 | 77 | $68.86 | [Chart](https://www.tradingview.com/chart/?symbol=HHH) | Howard Hughes Holdings Inc. | HHH |
-| 31 | 77 | $28.53 | [Chart](https://www.tradingview.com/chart/?symbol=CZR) | Caesars Entertainment, Inc. Common Stock | CZR |
-| 28 | 76 | $14.44 | [Chart](https://www.tradingview.com/chart/?symbol=OBDC) | Blue Owl Capital Corporation | OBDC |
-| 31 | 76 | $214.82 | [Chart](https://www.tradingview.com/chart/?symbol=AMT) | American Tower Corporation | AMT |
-| 36 | 76 | $52.48 | [Chart](https://www.tradingview.com/chart/?symbol=POWI) | Power Integrations Inc | POWI |
-| 29 | 73 | $335.70 | [Chart](https://www.tradingview.com/chart/?symbol=SHW) | The Sherwin-Williams Company | SHW |
-| 31 | 73 | $37.60 | [Chart](https://www.tradingview.com/chart/?symbol=MSTX) | Tidal Trust II Defiance Daily Target 2x Long MSTR ETF | MSTX |
-| 33 | 73 | $298.14 | [Chart](https://www.tradingview.com/chart/?symbol=UTHR) | United Therapeutics Corp | UTHR |
-| 37 | 71 | $16.36 | [Chart](https://www.tradingview.com/chart/?symbol=CHCT) | Community Healthcare Trust Incorporated Common Stock, $0.01 par value per share | CHCT |
-| 35 | 70 | $89.46 | [Chart](https://www.tradingview.com/chart/?symbol=LPX) | Louisiana-Pacific Corp. | LPX |
-| 36 | 70 | $78.67 | [Chart](https://www.tradingview.com/chart/?symbol=MET) | MetLife, Inc. | MET |
+| 26 | 75 | $50.14 | [Chart](https://www.tradingview.com/chart/?symbol=GSY) | Invesco Ultra Short Duration ETF | GSY |
+| 33 | 74 | $48.96 | [Chart](https://www.tradingview.com/chart/?symbol=FR) | First Industrial Realty Trust, Inc. | FR |
+| 29 | 73 | $335.48 | [Chart](https://www.tradingview.com/chart/?symbol=SHW) | The Sherwin-Williams Company | SHW |
+| 35 | 72 | $217.97 | [Chart](https://www.tradingview.com/chart/?symbol=AMT) | American Tower Corporation | AMT |
+| 35 | 71 | $78.22 | [Chart](https://www.tradingview.com/chart/?symbol=MET) | MetLife, Inc. | MET |
 | 36 | 70 | $194.60 | [Chart](https://www.tradingview.com/chart/?symbol=RGA) | Reinsurance Group of America, Incorporated | RGA |
-| 37 | 70 | $47.39 | [Chart](https://www.tradingview.com/chart/?symbol=EXAS) | Exact Sciences Corp | EXAS |
-| 38 | 68 | $12.68 | [Chart](https://www.tradingview.com/chart/?symbol=NU) | Nu Holdings Ltd. | NU |
-| 39 | 68 | $28.18 | [Chart](https://www.tradingview.com/chart/?symbol=ALKT) | Alkami Technology, Inc. Common Stock | ALKT |
-| 36 | 65 | $30.06 | [Chart](https://www.tradingview.com/chart/?symbol=HTH) | HILLTOP HOLDINGS INC. | HTH |
-| 39 | 65 | $26.06 | [Chart](https://www.tradingview.com/chart/?symbol=TRN) | Trinity Industries, Inc. | TRN |
+| 37 | 70 | $47.33 | [Chart](https://www.tradingview.com/chart/?symbol=EXAS) | Exact Sciences Corp | EXAS |
+| 38 | 70 | $16.36 | [Chart](https://www.tradingview.com/chart/?symbol=CHCT) | Community Healthcare Trust Incorporated Common Stock, $0.01 par value per share | CHCT |
+| 36 | 69 | $89.46 | [Chart](https://www.tradingview.com/chart/?symbol=LPX) | Louisiana-Pacific Corp. | LPX |
+| 37 | 68 | $12.59 | [Chart](https://www.tradingview.com/chart/?symbol=NU) | Nu Holdings Ltd. | NU |
+| 37 | 64 | $30.06 | [Chart](https://www.tradingview.com/chart/?symbol=HTH) | HILLTOP HOLDINGS INC. | HTH |
 
 ## **Methodology**
 
